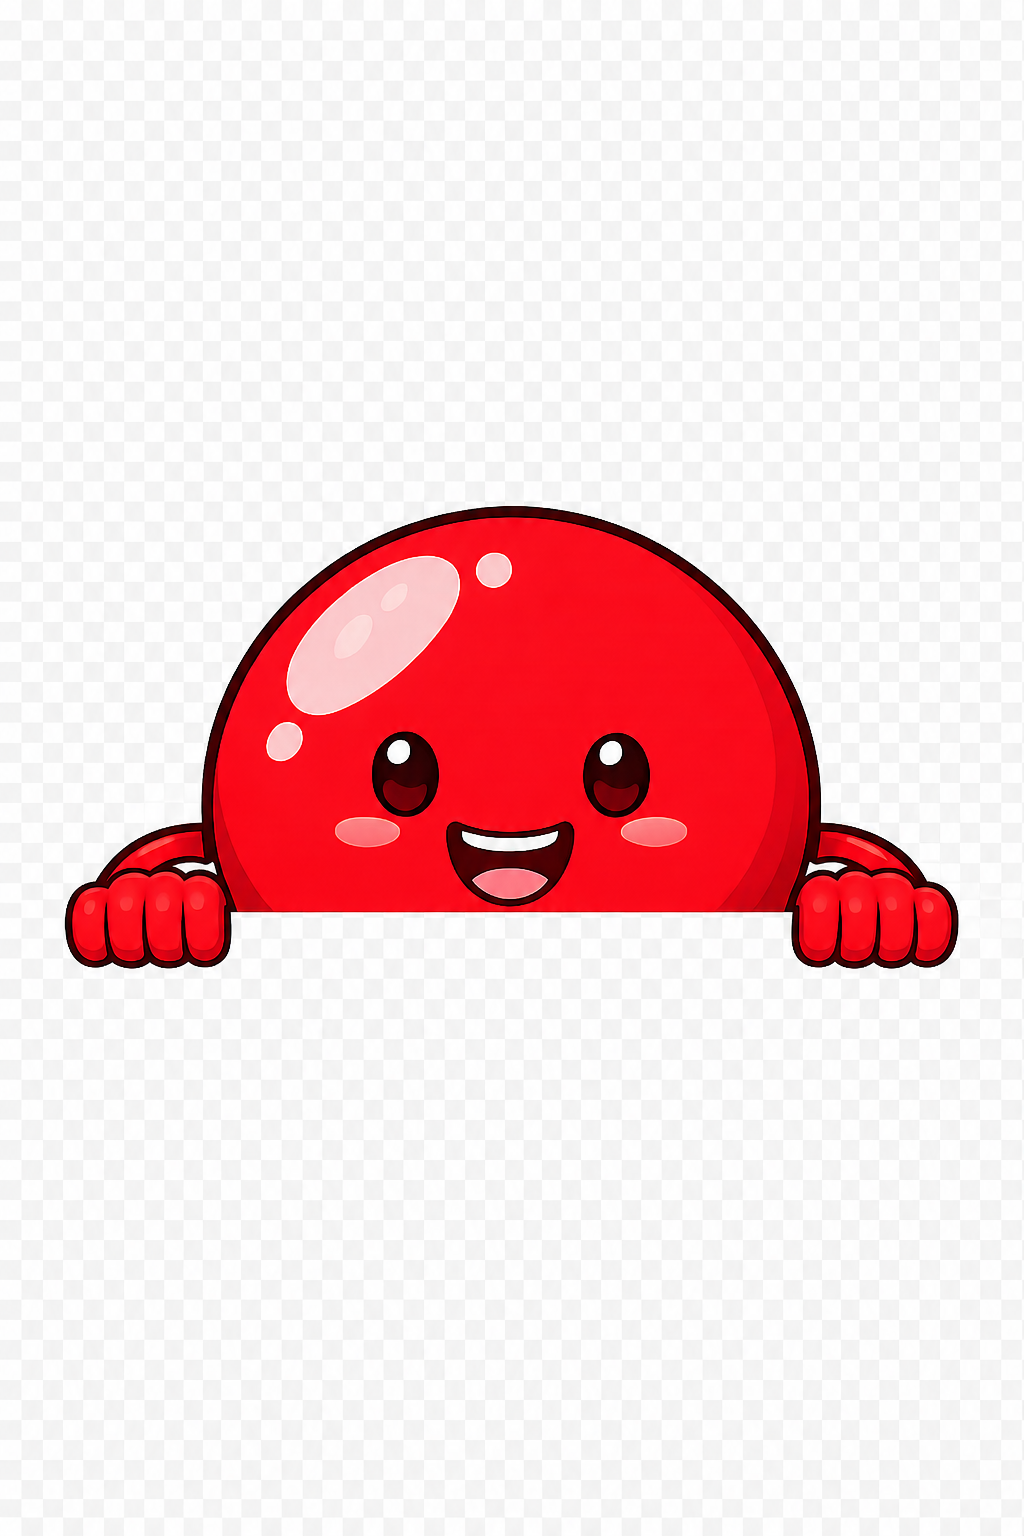
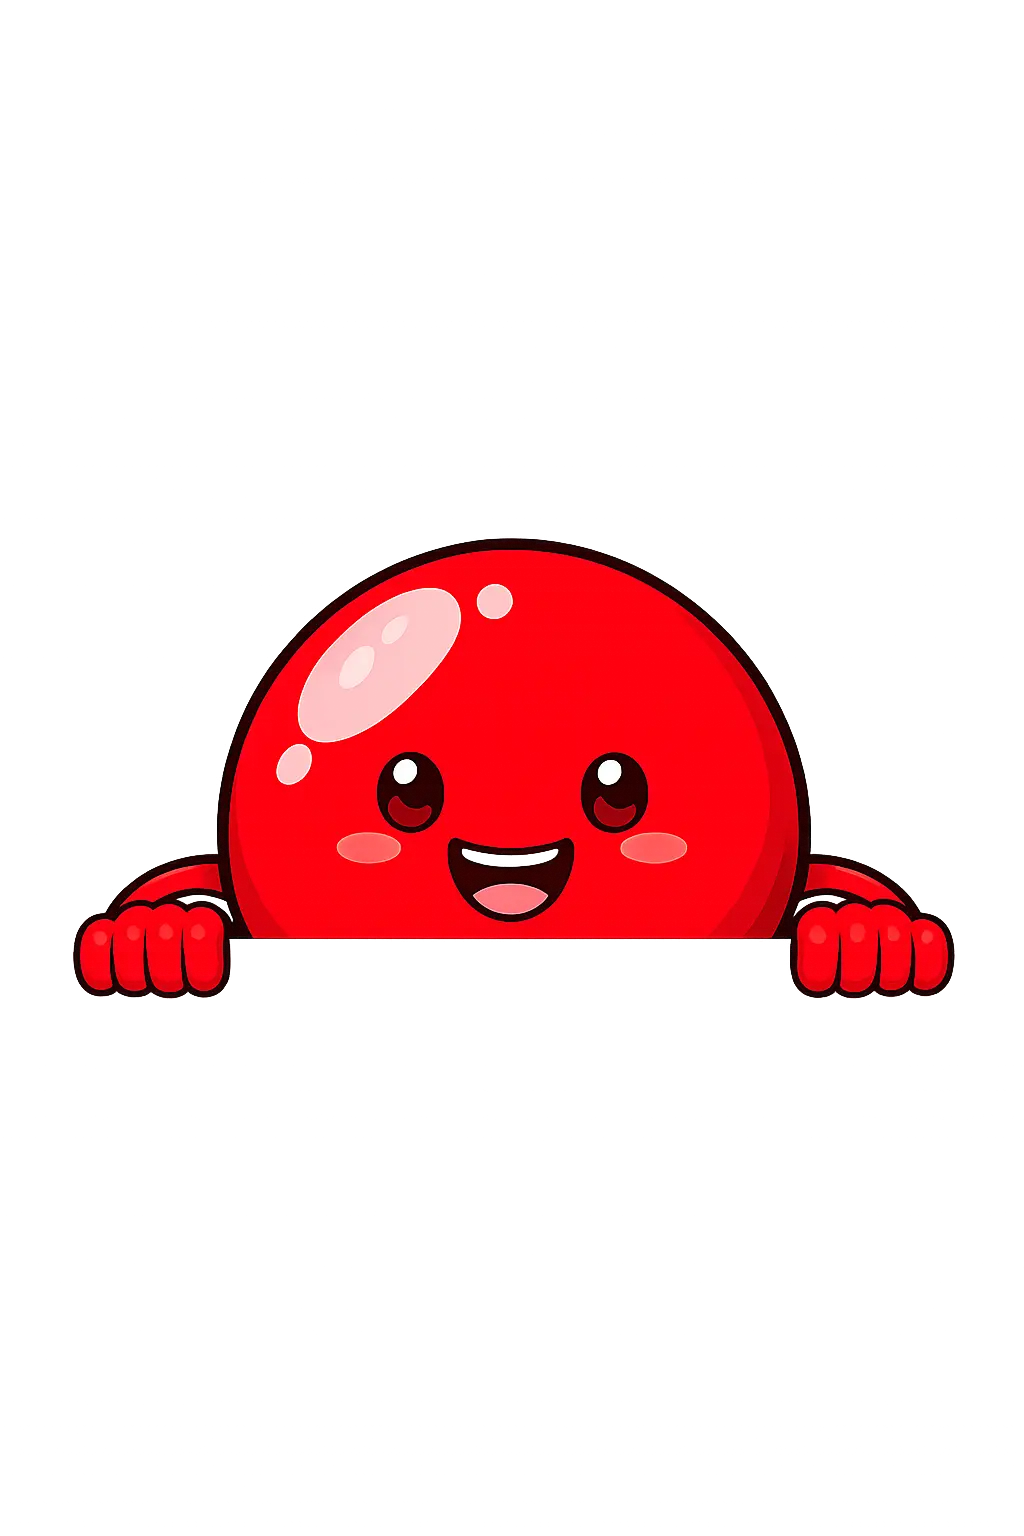
desktop co-brandé

Changed region(s): [[0.0625, 0.3125, 0.9375, 0.6562]]

diff --git a/resources/js/components/co-branded/tabs/CoBrandedMapTab.vue b/resources/js/components/co-branded/tabs/CoBrandedMapTab.vue
@@ -32,24 +32,24 @@ const showSuggestions = ref(false);
 // Mapping waitTime → couleur (palette HUG)
 const waitTimeColor: Record<string, string> = {
     none:       'var(--color-vistablue-300)',  // Pas de délai
-    '28 jours': 'var(--color-pictonblue-300)',
-    '4 mois':   'var(--color-catskillwhite-600)',
-    '6 mois':   'var(--color-razzmatazz-600)',
+    '28 jours': 'var(--color-pictonblue-200)',
+    '4 mois':   'var(--color-catskillwhite-500)',
+    '6 mois':   'var(--color-razzmatazz-500)',
 };
 
 // Quand hover : couleur plus contrastée
 const waitTimeColorHover: Record<string, string> = {
     none:       'var(--color-vistablue-600)',
-    '28 jours': 'var(--color-pictonblue-600)',
-    '4 mois':   'var(--color-catskillwhite-900)',
-    '6 mois':   'var(--color-razzmatazz-900)',
+    '28 jours': 'var(--color-pictonblue-300)',
+    '4 mois':   'var(--color-catskillwhite-700)',
+    '6 mois':   'var(--color-razzmatazz-800)',
 };
 
 const legendItems = [
     { label: 'Pas de délai', color: 'var(--color-vistablue-300)' },
-    { label: '28 jours',     color: 'var(--color-pictonblue-300)' },
-    { label: '4 mois',       color: 'var(--color-catskillwhite-600)' },
-    { label: '6 mois',       color: 'var(--color-razzmatazz-600)' },
+    { label: '28 jours',     color: 'var(--color-pictonblue-200)' },
+    { label: '4 mois',       color: 'var(--color-catskillwhite-500)' },
+    { label: '6 mois',       color: 'var(--color-razzmatazz-500)' },
 ];
 
 const hoveredCountry = computed(() => {

diff --git a/resources/js/components/co-branded/tabs/CoBrandedStatisticsTab.vue b/resources/js/components/co-branded/tabs/CoBrandedStatisticsTab.vue
@@ -43,7 +43,7 @@ const activeIdx = ref(0);
                     :src="stat.mascot"
                     alt=""
                     :class="[
-                        'pointer-events-none absolute -top-24 left-1/2 h-24 w-auto -translate-x-1/2 transition-opacity duration-200 sm:-top-28 sm:h-28',
+                        'pointer-events-none absolute -top-29 left-1/2 h-48 w-auto -translate-x-1/2 transition-opacity duration-200 sm:-top-35 sm:h-58',
                         activeIdx === idx ? 'opacity-100' : 'opacity-0',
                     ]"
                 />

diff --git a/resources/js/components/co-branded/tabs/CoBrandedStepsTab.vue b/resources/js/components/co-branded/tabs/CoBrandedStepsTab.vue
@@ -66,7 +66,7 @@ const activeIdx = ref(0);
                         style="font-size: 48px; font-variation-settings: 'FILL' 1;"
                         aria-hidden="true"
                     >{{ step.icon }}</span>
-                    <h3 class="mt-4 text-heading-t1 text-catskillwhite-900">{{ step.title }}</h3>
+                    <h3 class="mt-4 text-heading-t2 text-catskillwhite-900">{{ step.title }}</h3>
                     <p class="mt-3 text-body text-catskillwhite-800">{{ step.description }}</p>
                 </article>
             </div>
